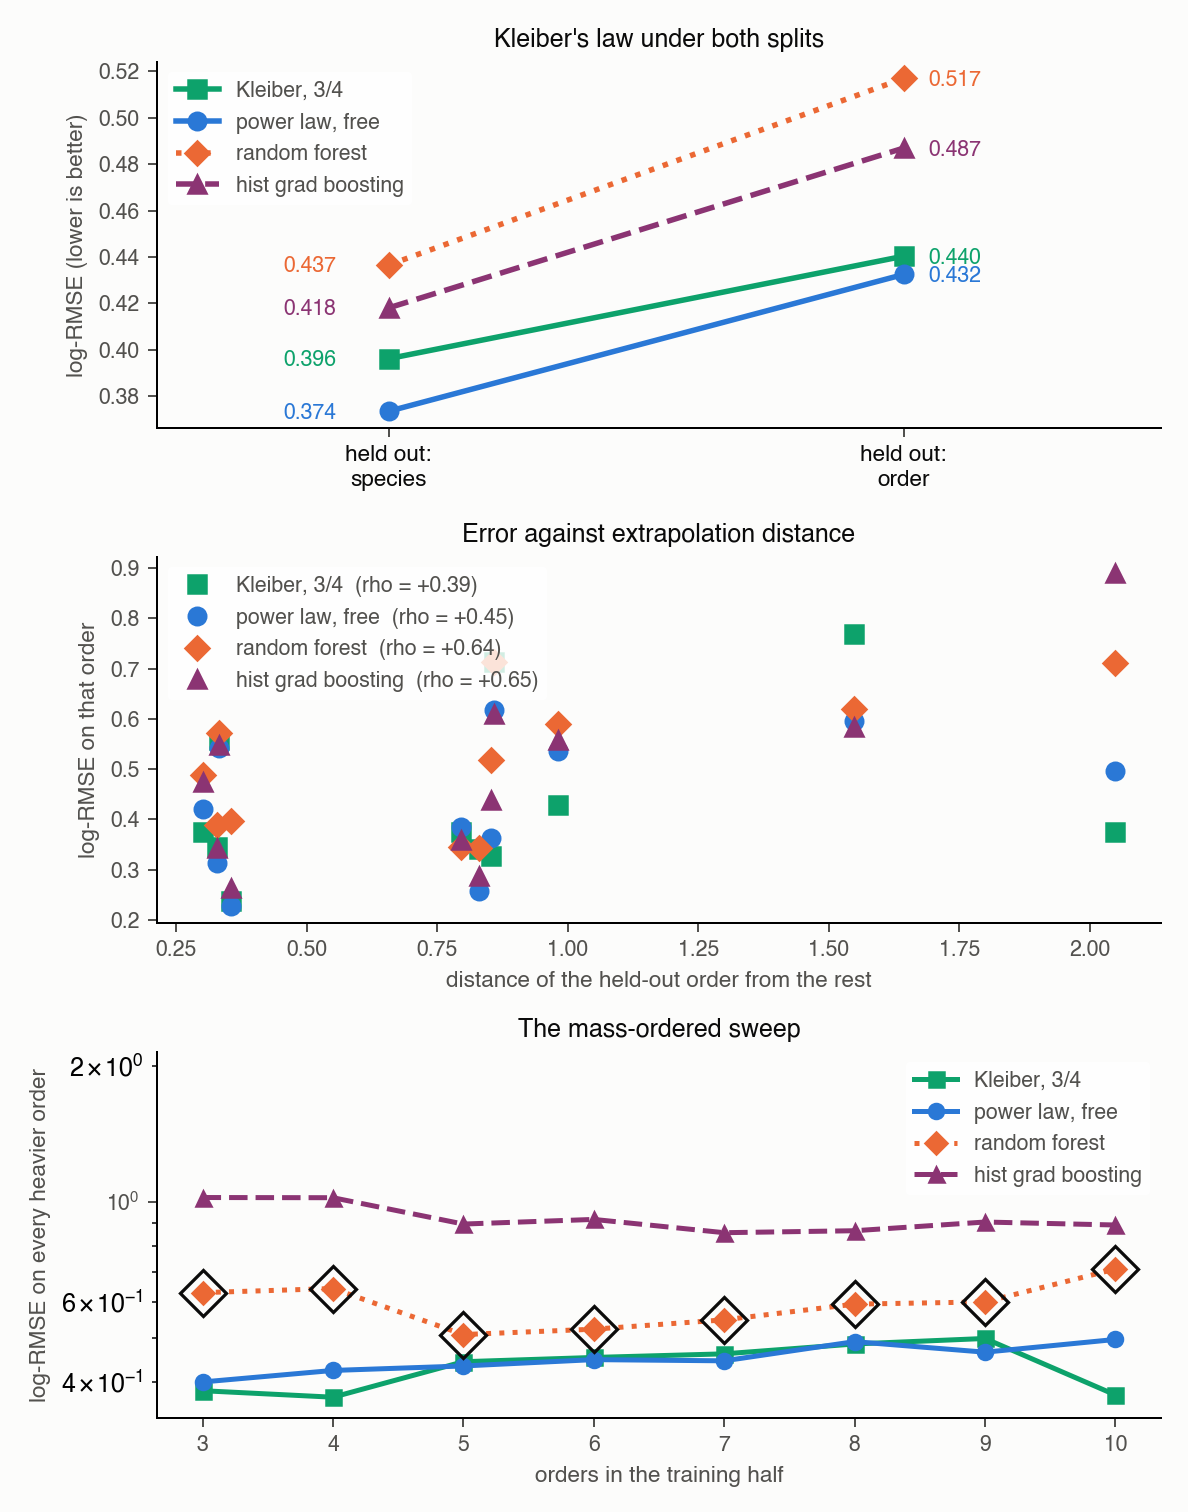
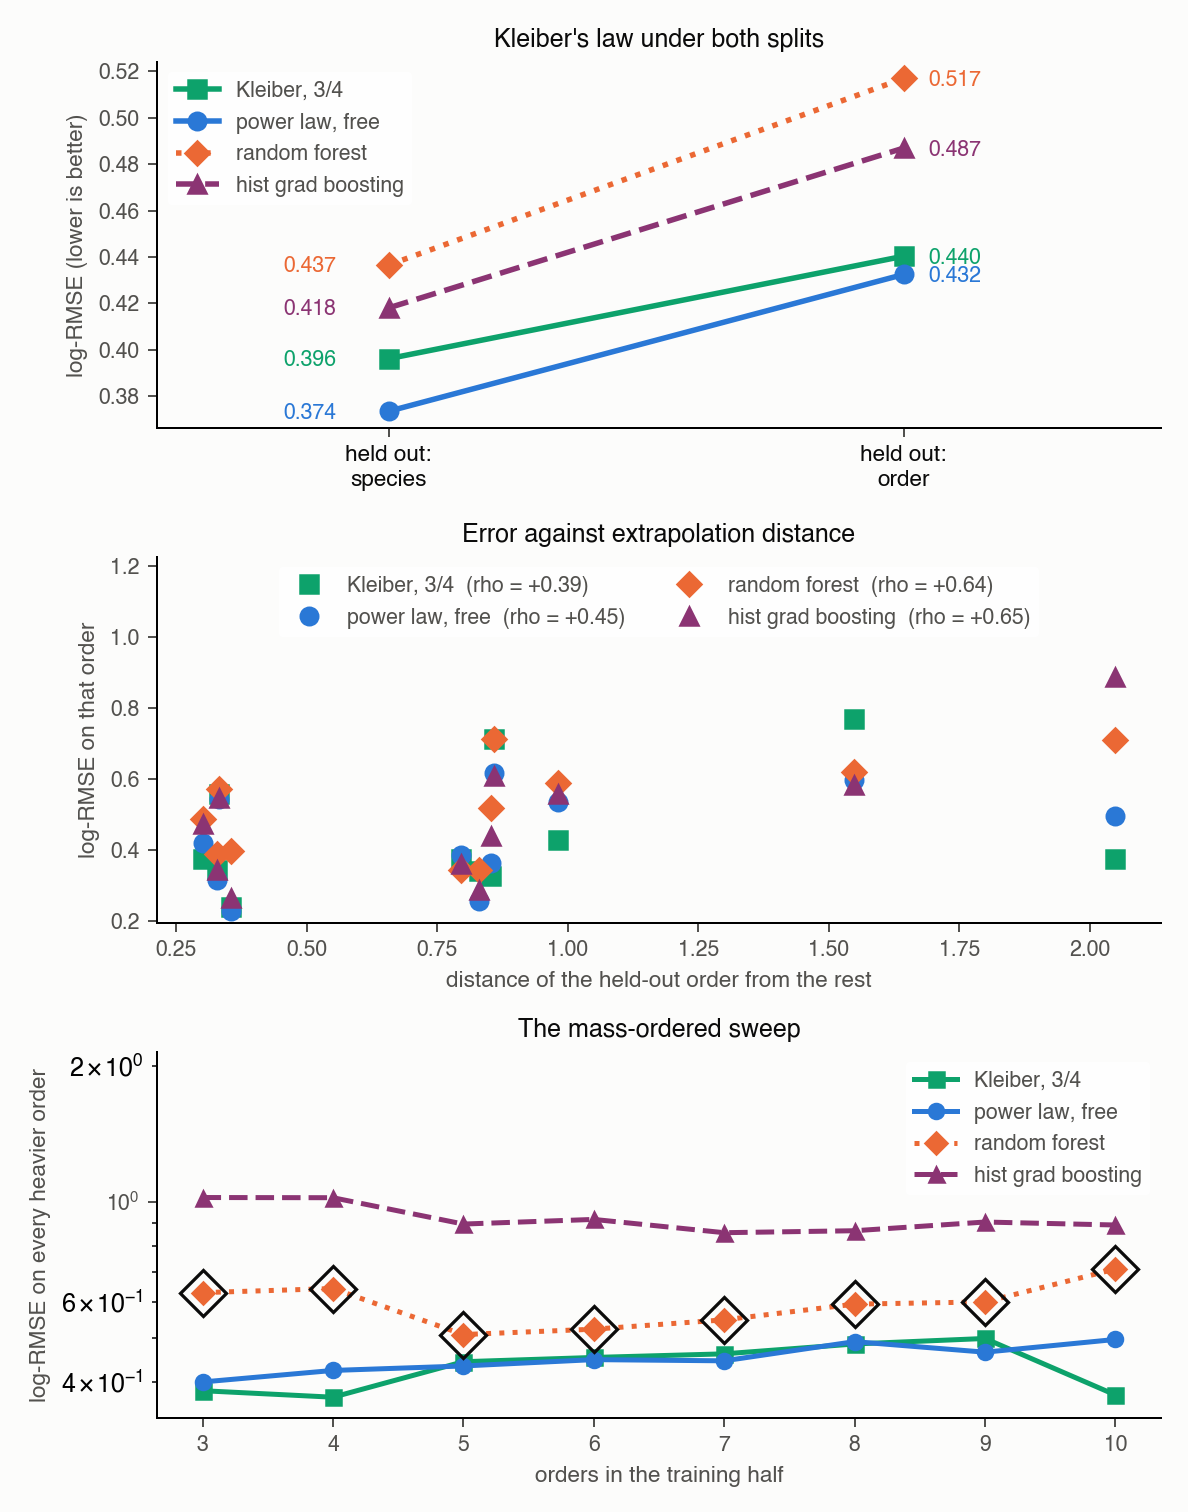
Move a legend off its data and a label off a reference line
Two cosmetic faults found by rendering the supplement page by page, both
older than this session. They go in now because main is already waiting on
its next release, so another change under results/ costs nothing extra.

In the allometry figure the middle panel's four-entry legend sat in the
corner over the cluster of orders near distance 0.85. It is laid across the
top in two columns, above headroom taken from the highest score the panel
draws. A first attempt took the headroom from every estimator in the report,
including ones this panel does not draw, and flattened the data against the
floor; the rendered figure caught that.

In the Gaussian-process figure the label for the linear-plus-RBF kernel was
set fifteen points below its marker, where the dotted "predictions as spread
as the truth" diagonal ran straight through it. At thirty it clears the line
and still sits above the RBF kernel's label.

Only the four image files change.

diff --git a/analysis_gp.py b/analysis_gp.py
@@ -398,7 +398,9 @@ def plot_gp(study: GaussianProcessStudy) -> Path | None:
 
     spread = study.reversion.set_index("model_name")
     # Two of the three kernels land almost on top of each other, so labels
-    # alternate above and below their marker by rank in predicted spread.
+    # alternate above and below their marker by rank in predicted spread. The
+    # one that goes below goes far enough to clear the dotted diagonal, which at
+    # fifteen points ran straight through it.
     ranked = [
         model
         for model in spread.sort_values("predicted_spread", ascending=False).index
@@ -422,7 +424,7 @@ def plot_gp(study: GaussianProcessStudy) -> Path | None:
             label,
             (float(row["actual_spread"]), float(row["predicted_spread"])),
             textcoords="offset points",
-            xytext=(-10, 8 if spread_order.get(model, 0) % 2 == 0 else -15),
+            xytext=(-10, 8 if spread_order.get(model, 0) % 2 == 0 else -30),
             ha="right",
             fontsize=FONT_SMALL,
             color=colour,

diff --git a/analysis_allometry.py b/analysis_allometry.py
@@ -326,8 +326,12 @@ def plot(payload: dict[str, Any], report: pd.DataFrame, sweep: pd.DataFrame) -> 
     axes[1].set_ylabel("log-RMSE on that order", fontsize=FONT_LABEL, color=muted)
     axes[1].set_title("Error against extrapolation distance",
                       fontsize=FONT_TITLE, color=ink)
-    axes[1].legend(frameon=True, facecolor="white", edgecolor="none",
-        framealpha=0.82, fontsize=FONT_LEGEND, loc="upper left", labelcolor=muted)
+    # Four entries in a corner covered the cluster of orders near distance 0.85.
+    # Headroom above the data, and the legend laid across it in two columns.
+    drawn = report[report["estimator"].isin(list(style))]
+    axes[1].set_ylim(top=float(drawn["score"].max()) * 1.38)
+    axes[1].legend(frameon=True, facecolor="white", edgecolor="none", framealpha=0.82,
+        fontsize=FONT_LEGEND, loc="upper center", ncol=2, labelcolor=muted)
 
     # --- Right: the mass-ordered sweep, as in Result 5 ----------------------
     for name, (colour, label) in style.items():
